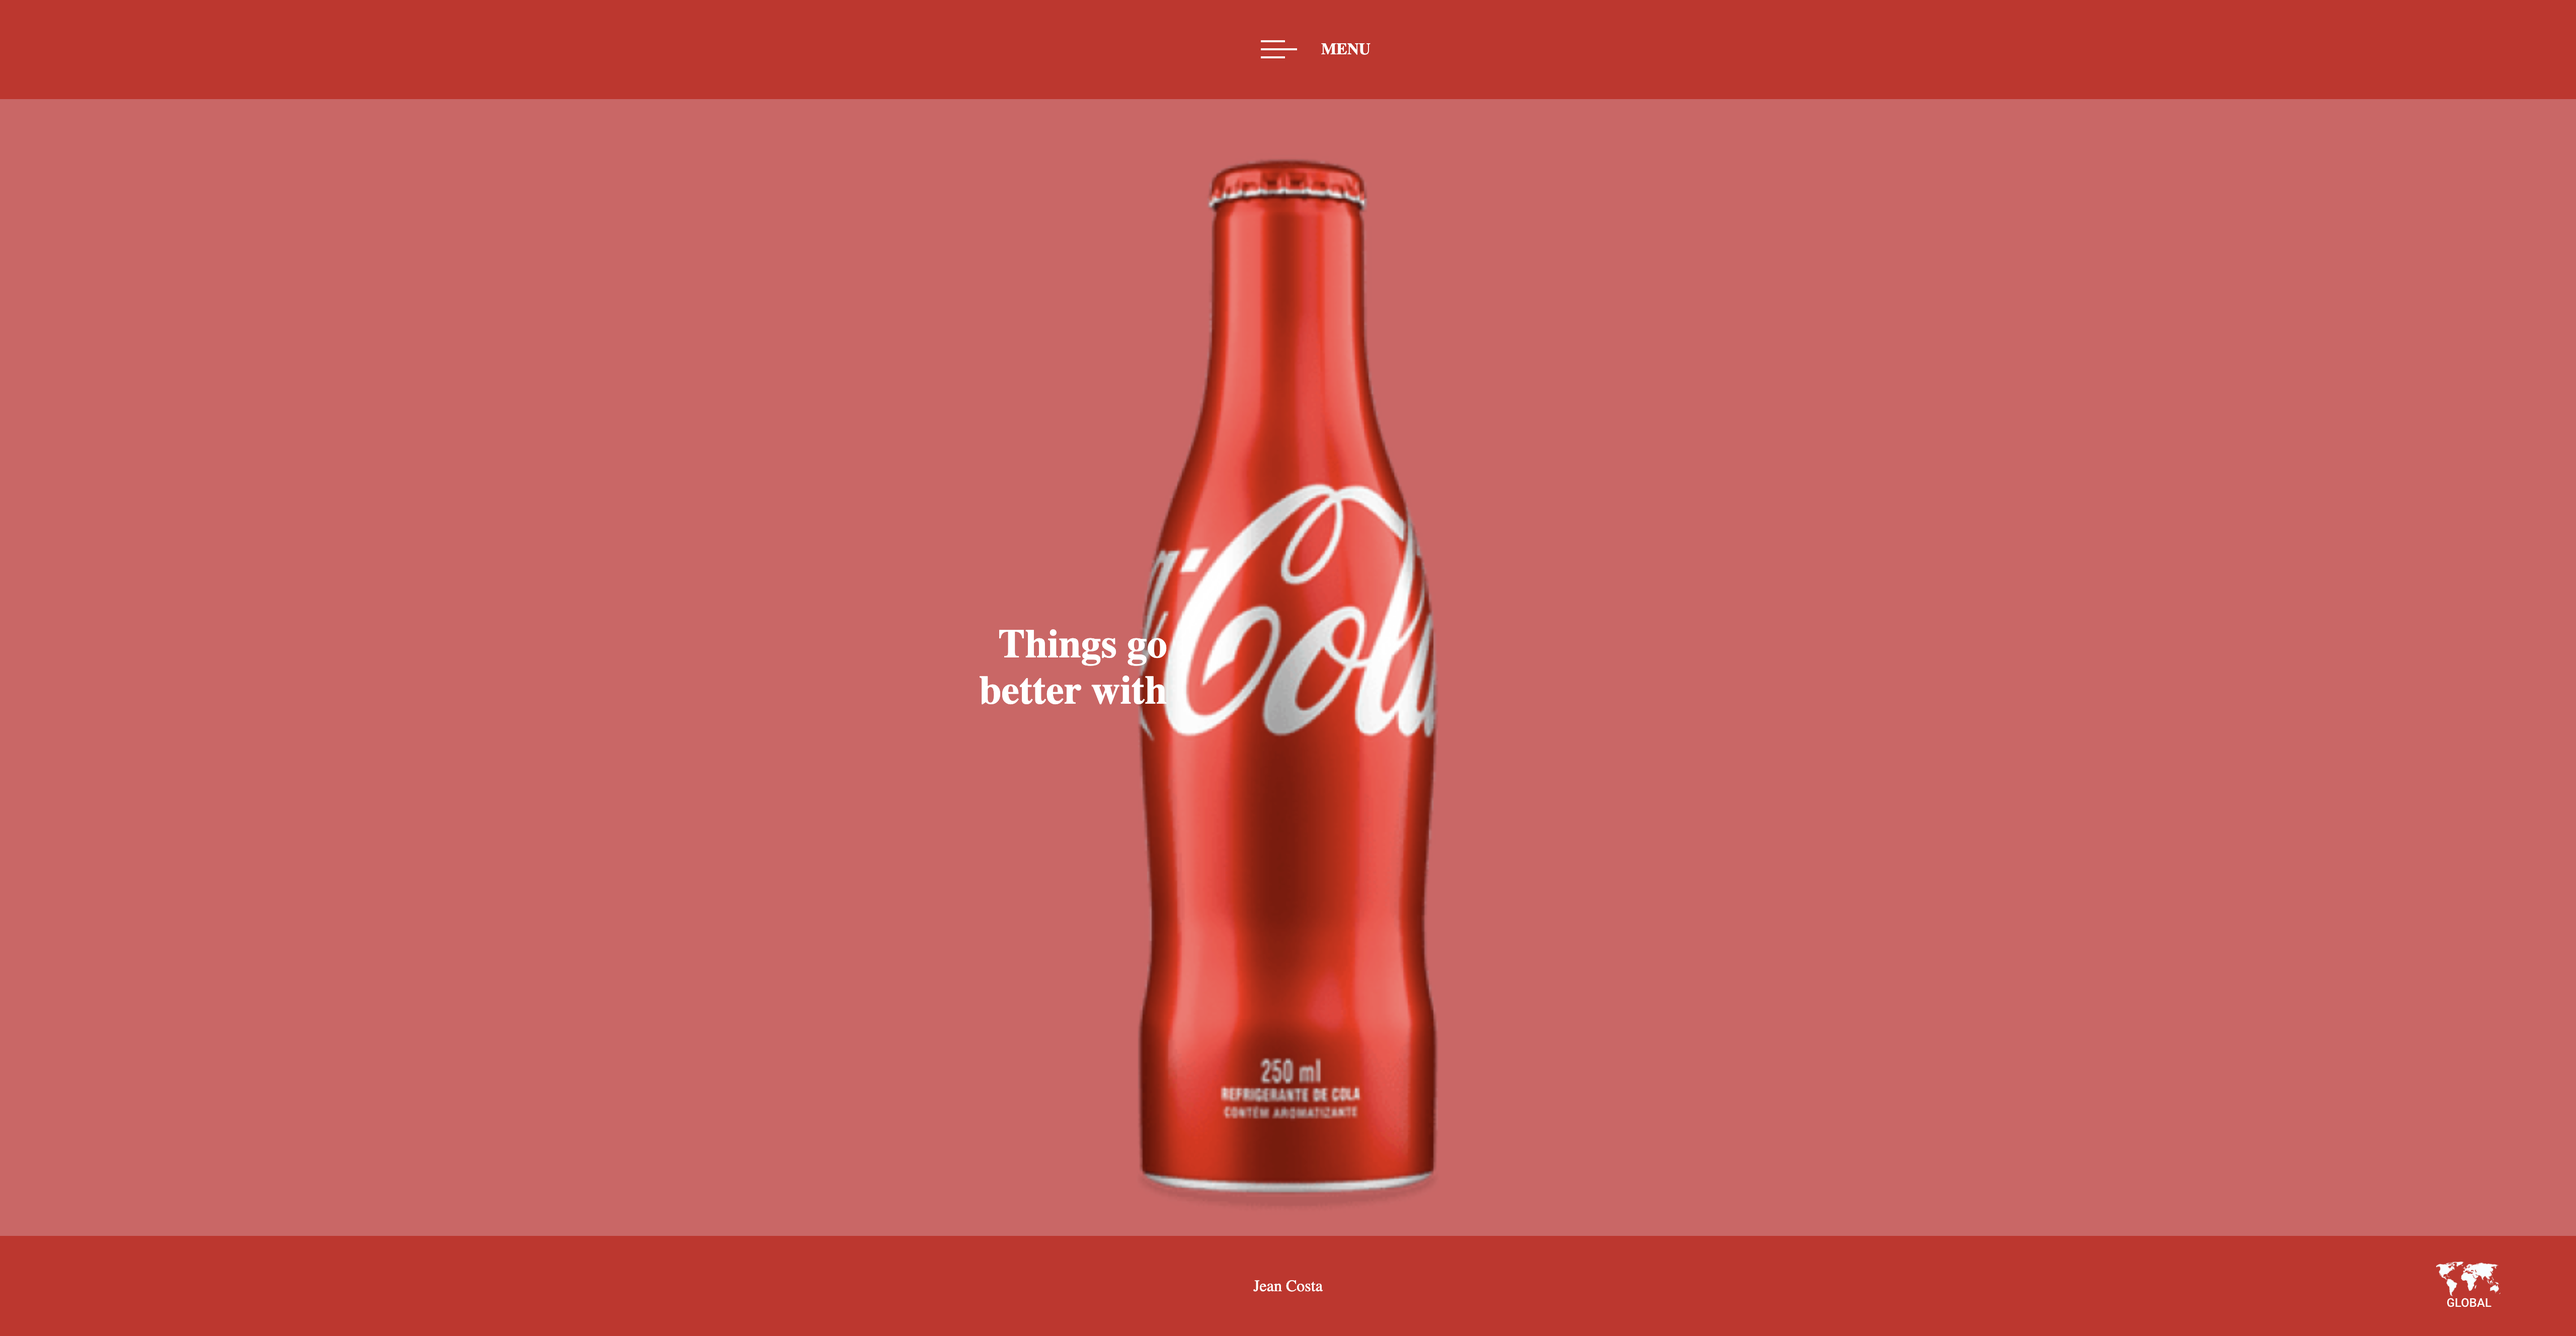
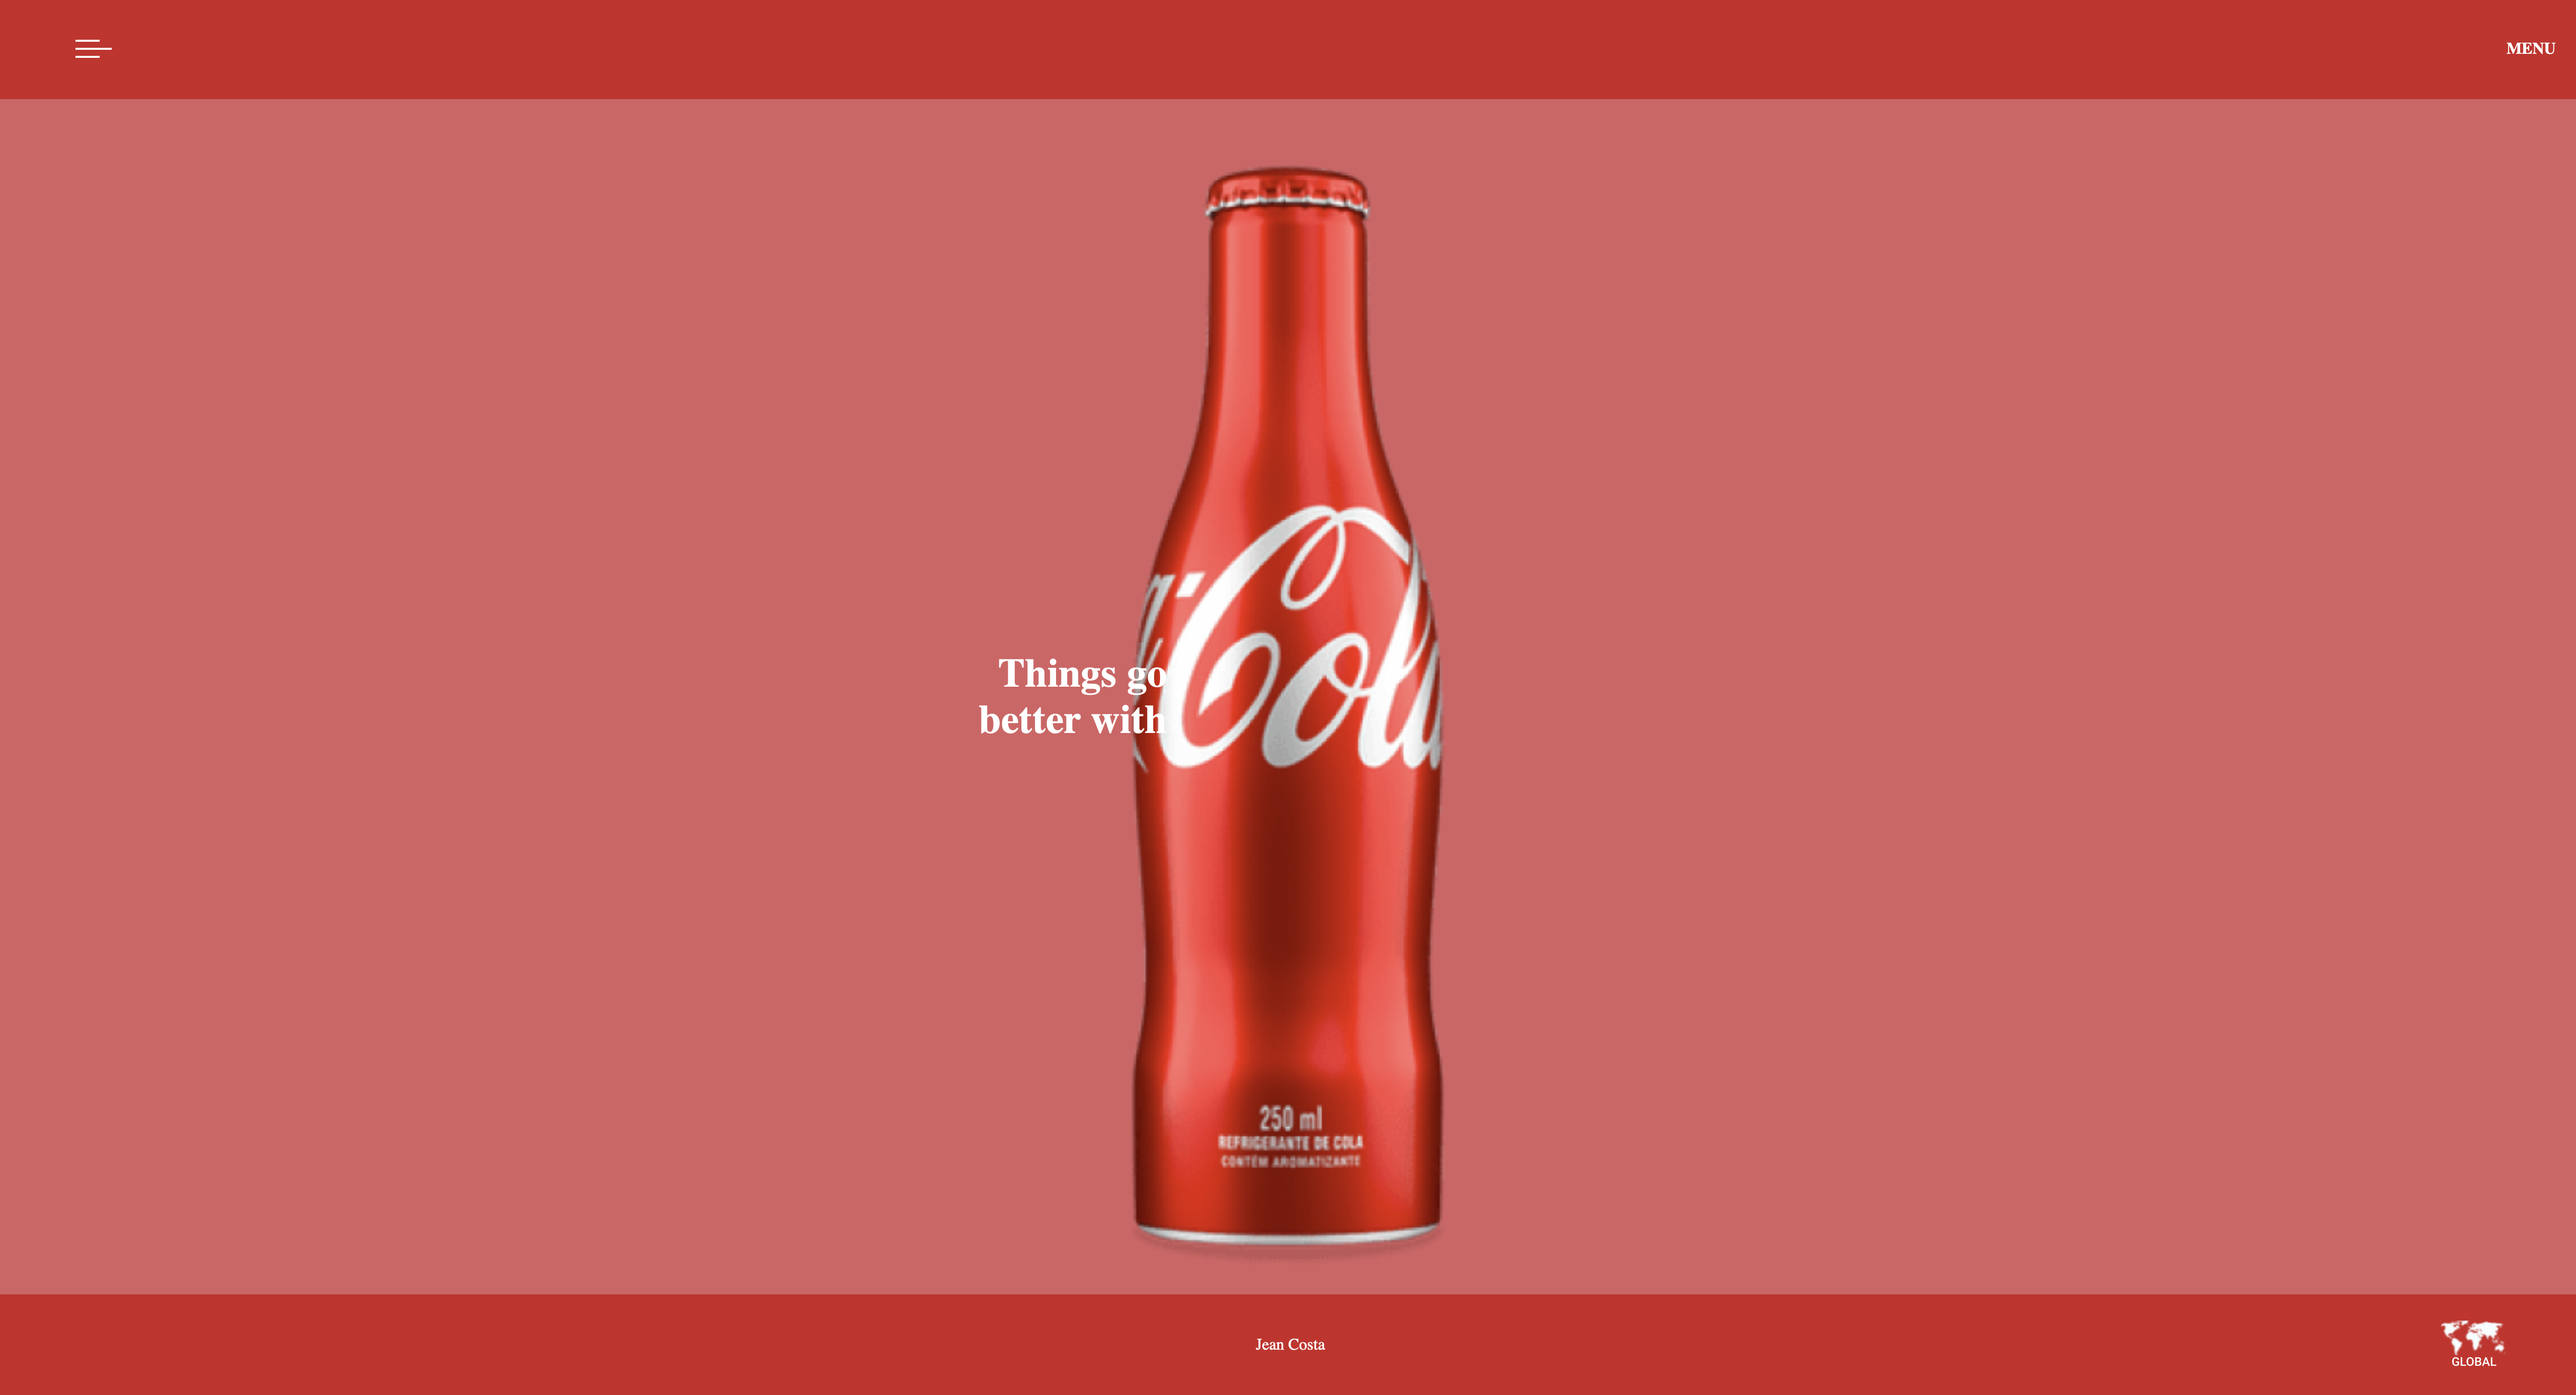
Adicionando o arquivo de questões...

Changed region(s): [[0.375, 0.3125, 0.5625, 0.875], [0.4688, 0.125, 0.5312, 0.3125], [0.9375, 0.9375, 0.9688, 0.9688]]

diff --git a/style.css b/style.css
@@ -4,32 +4,16 @@
     box-sizing: border-box;
 }
 
-body {
+body{
     width: 100vw;
     height: 100vh;
+    background: linear-gradient(#CF2425, #DA6062 50%, #DA6062 60%,#CF2425);
     display: flex;
     flex-direction: column;
+    font-family: 'Montserrat', sans-serif;
 }
 
-header, footer {
-    height: 100px;
-    background-color: #CF2425;
-    color: #FFFFFF;
-    display: flex;
-    align-items: center;
-    justify-content: center;
-    padding: 0 20px;
-}
-
-main {
-    flex-grow: 1;
-    display: flex;
-    justify-content: center;
-    align-items: center;
-    background-color: #DA6062;
-}
-
-header {
+header{
     height: 100px;
     display: flex;
     align-items: center;
@@ -38,30 +22,30 @@ header {
     padding-left: 75px;
 }
 
-header span {
+header span{
     font-weight: 600;
 }
 
-main {
+main{
     flex-grow: 1;
     display: flex;
     justify-content: center;
     align-items: center;
 }
 
-.background-logo {
+.background-logo{
     position: absolute;
     width: 100%;
     max-height: 100%;
     margin: auto;
-    top: 0;
+    top:0;
     left: 0;
     right: 0;
     bottom: 0;
     z-index: -1;
 }
 
-.content-text {
+.content-text{
     position: absolute;
     color: #ffffff;
     font-size: 2.5rem;
@@ -69,12 +53,11 @@ main {
     transform: translateX(-100%);
     text-align: end;
 }
-
-.content-image {
+.content-image{
     height: 85vh;
 }
 
-footer {
+footer{
     height: 100px;
     display: flex;
     justify-content: space-between;
@@ -85,29 +68,27 @@ footer {
     font-weight: 100;
 }
 
-footer div {
+footer div{
     width: 64px;
 }
 
-@media (max-width: 768px) {
-    header {
-        padding-left: 25px;
-    }
 
-    .content-text {
+@media (max-width:768px){
+    header{
+        padding-left: 25px ;
+    }
+    .content-text{
         transform: translateX(0%);
         top: 80px;
         font-size: 1rem;
         width: 100px;
         text-align: center;
     }
-
-    .content-image {
+    .content-image{
         height: 70vh;
     }
 
-    footer {
+    footer{
         padding: 0px 25px;
     }
 }
-
